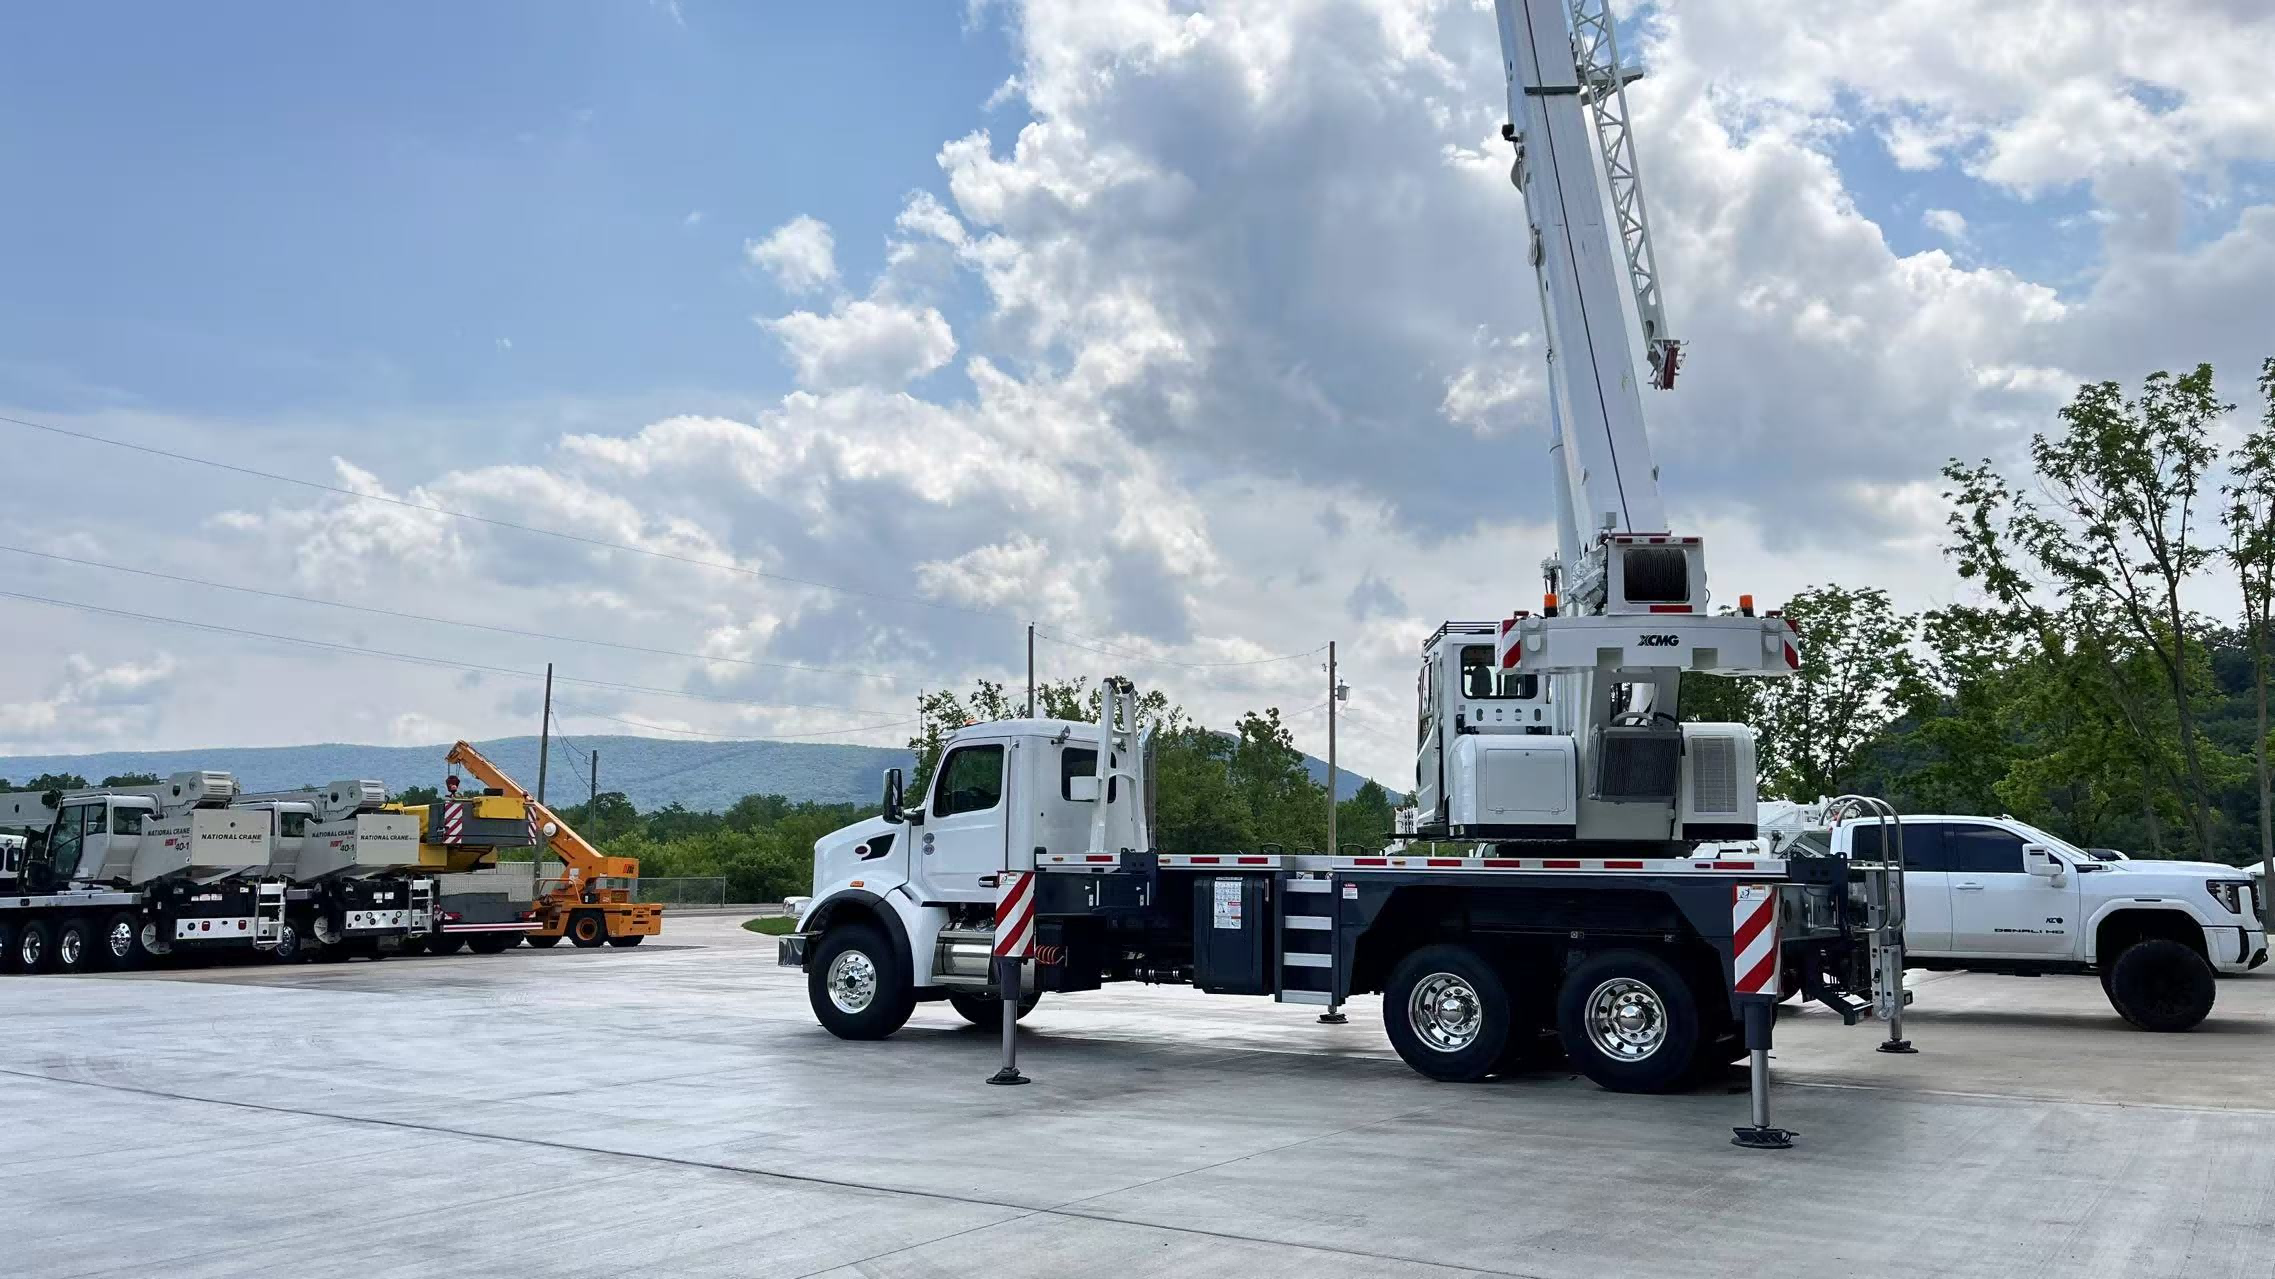
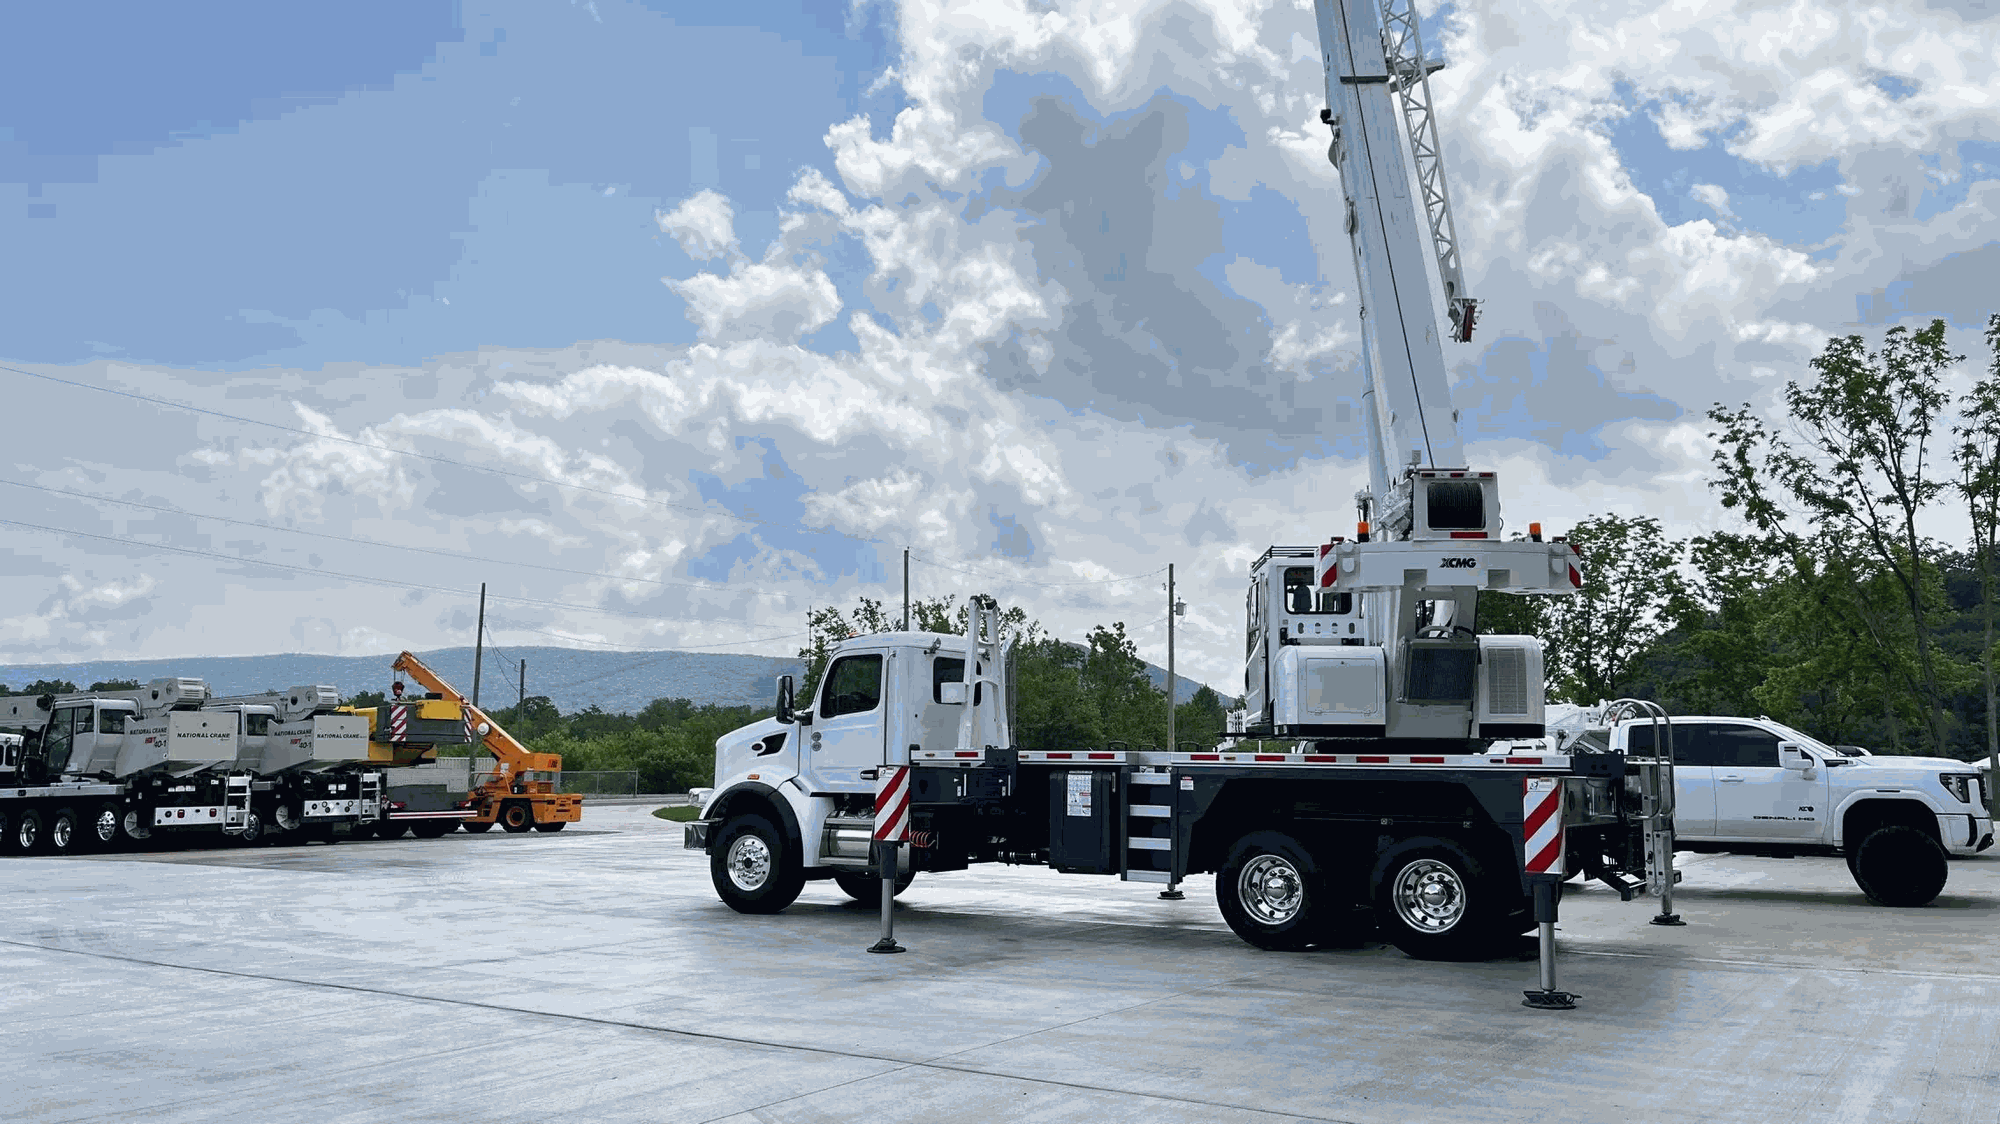
perf: cap oversized crane evidence images at 2000px

diff --git a/tools/resize_crane_ppt_source_images.py b/tools/resize_crane_ppt_source_images.py
@@ -1,0 +1,105 @@
+from __future__ import annotations
+
+import argparse
+import json
+from pathlib import Path
+from typing import Any
+
+from PIL import Image, ImageOps
+
+
+ROOT = Path(__file__).resolve().parents[1]
+SOURCE_DIR = ROOT / "assets" / "crane-ppt-source"
+
+
+def resize_oversized_images(
+    directory: Path = SOURCE_DIR,
+    *,
+    long_edge: int = 2000,
+    jpeg_quality: int = 82,
+) -> dict[str, Any]:
+    resized = []
+    for path in sorted(directory.glob("*")):
+        if not path.is_file():
+            continue
+        try:
+            with Image.open(path) as source:
+                source.load()
+                original_size = source.size
+                if max(original_size) <= long_edge:
+                    continue
+                image = ImageOps.exif_transpose(source)
+                scale = long_edge / max(image.size)
+                target_size = (
+                    max(1, round(image.width * scale)),
+                    max(1, round(image.height * scale)),
+                )
+                image = image.resize(target_size, Image.Resampling.LANCZOS)
+                before_bytes = path.stat().st_size
+                suffix = path.suffix.lower()
+                if suffix in {".jpg", ".jpeg"}:
+                    if image.mode != "RGB":
+                        image = image.convert("RGB")
+                    image.save(
+                        path,
+                        "JPEG",
+                        quality=jpeg_quality,
+                        optimize=True,
+                        progressive=True,
+                    )
+                elif suffix == ".png":
+                    # These PPT embeds are screenshots and maps with large flat
+                    # color regions. Palette encoding preserves text and alpha
+                    # edges while avoiding a larger file after downsampling.
+                    method = (
+                        Image.Quantize.FASTOCTREE
+                        if image.mode == "RGBA"
+                        else Image.Quantize.MEDIANCUT
+                    )
+                    image = image.quantize(colors=256, method=method)
+                    image.save(path, "PNG", optimize=True)
+                else:
+                    image.save(path)
+                resized.append(
+                    {
+                        "path": path.relative_to(ROOT).as_posix(),
+                        "before_size": list(original_size),
+                        "after_size": list(target_size),
+                        "before_bytes": before_bytes,
+                        "after_bytes": path.stat().st_size,
+                    }
+                )
+        except OSError:
+            continue
+    return {
+        "long_edge": long_edge,
+        "jpeg_quality": jpeg_quality,
+        "resized_count": len(resized),
+        "images": resized,
+    }
+
+
+def main() -> None:
+    parser = argparse.ArgumentParser()
+    parser.add_argument("--directory", type=Path, default=SOURCE_DIR)
+    parser.add_argument("--long-edge", type=int, default=2000)
+    parser.add_argument("--jpeg-quality", type=int, default=82)
+    args = parser.parse_args()
+    result = resize_oversized_images(
+        args.directory,
+        long_edge=args.long_edge,
+        jpeg_quality=args.jpeg_quality,
+    )
+    source_manifest = ROOT / "data" / "crane-ppt-insights" / "source.json"
+    if source_manifest.exists():
+        payload = json.loads(source_manifest.read_text(encoding="utf-8"))
+        payload["resized_oversized_assets"] = result["resized_count"]
+        payload["source_image_long_edge_limit"] = result["long_edge"]
+        source_manifest.write_text(
+            json.dumps(payload, ensure_ascii=False, indent=2), encoding="utf-8"
+        )
+    print(json.dumps(result, ensure_ascii=False, indent=2))
+
+
+if __name__ == "__main__":
+    main()

diff --git a/tools/crane_ppt_insights.py b/tools/crane_ppt_insights.py
@@ -400,6 +400,12 @@ def build_crane_ppt_insights(source: Path | None = None) -> dict[str, Any]:
         update_manifests=False,
         delete_files=True,
     )
+    try:
+        from .resize_crane_ppt_source_images import resize_oversized_images
+    except ImportError:
+        from resize_crane_ppt_source_images import resize_oversized_images
+
+    resize_result = resize_oversized_images()
 
     segment_map = {
         name: {**CLASS_META[name], "slides": slides}
@@ -418,6 +424,8 @@ def build_crane_ppt_insights(source: Path | None = None) -> dict[str, Any]:
             "generated_assets": dedupe_result["unique_assets"],
             "deduplicated_groups": dedupe_result["duplicate_groups"],
             "deduplicated_files": dedupe_result["removed_files"],
+            "resized_oversized_assets": resize_result["resized_count"],
+            "source_image_long_edge_limit": resize_result["long_edge"],
             "native_tables": sum(len(item["tables"]) for item in records),
             "native_charts": sum(len(item["charts"]) for item in records),
         },

diff --git a/tests/test_crane_pages.py b/tests/test_crane_pages.py
@@ -72,6 +72,15 @@ def test_crane_ppt_assets_are_content_deduplicated():
     assert source["deduplicated_files"] == 51
 
 
+def test_crane_source_images_respect_web_resolution_limit():
+    sizes = []
+    for path in sorted((ROOT / "assets" / "crane-ppt-source").glob("*")):
+        with Image.open(path) as image:
+            sizes.append(image.size)
+    assert sizes
+    assert max(max(size) for size in sizes) <= 2200
+
+
 def test_crane_pages_preserve_unknowns_and_exclude_stale_excavator_scoring():
     build_all()
     rt60 = (ROOT / "crane-rt-60t.html").read_text(encoding="utf-8")
